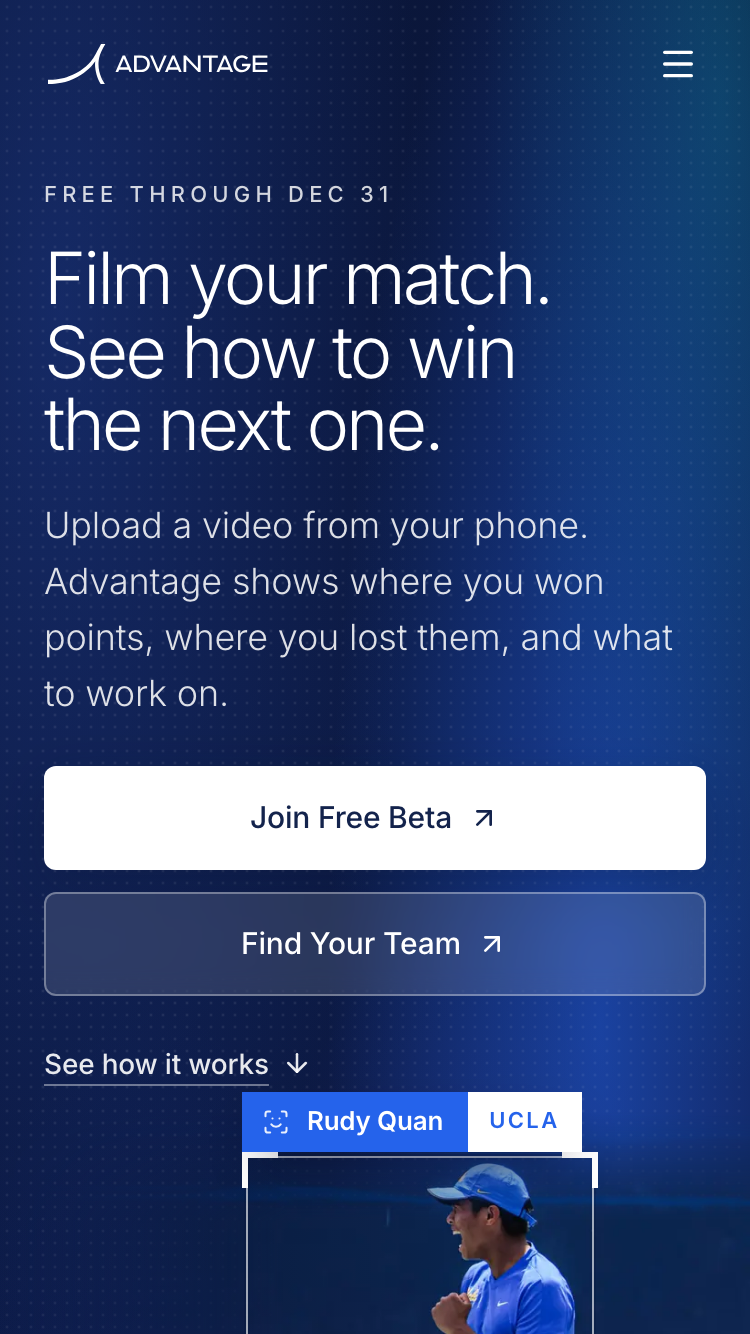
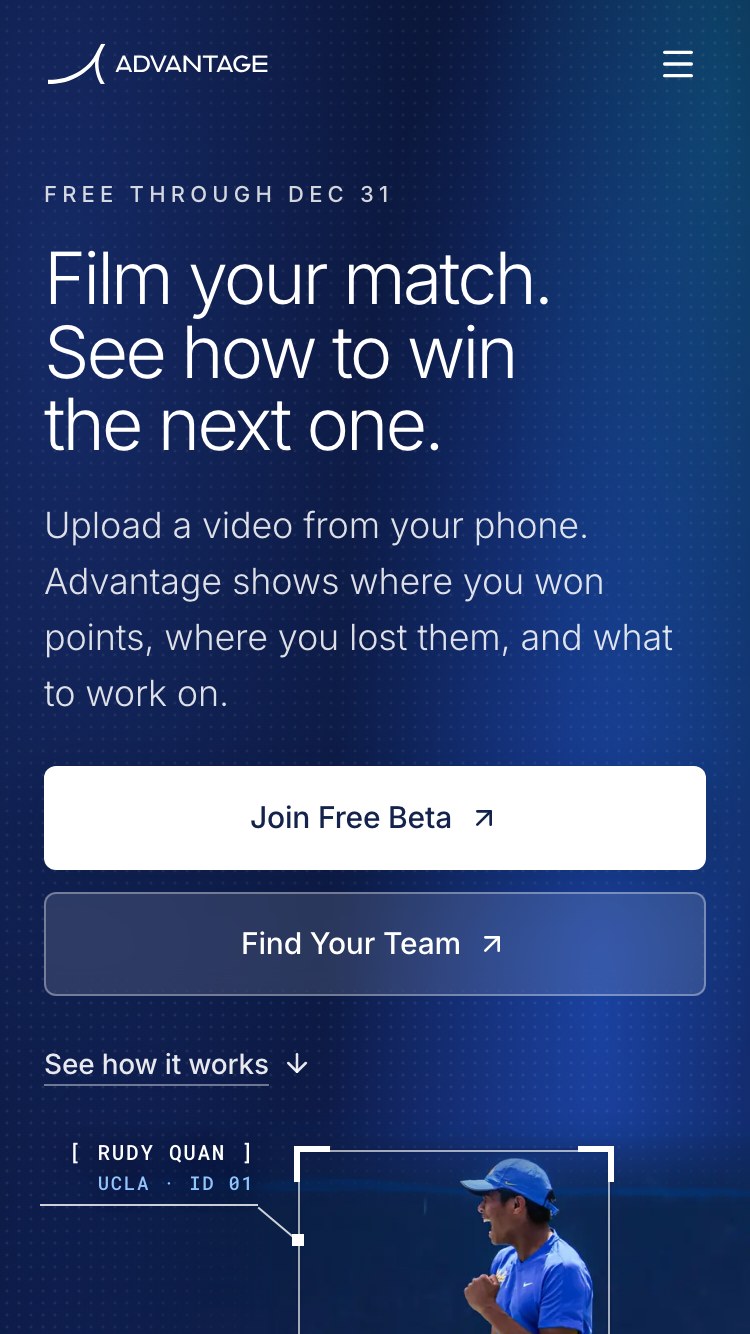
Turn the player tag into an angled callout
Replace the two-part tag with a technical read-out: an angled hairline
leader leaves the tracking box's left edge at head height, turns flat, and
carries a mono label out to the left ([ RUDY QUAN ] over UCLA · ID 01).
On phones the photo narrows slightly so the callout fits beside it.

Changed region(s): [[0.1227, 0.7991, 0.828, 1.0], [0.8587, 0.8913, 0.8893, 0.922], [0.368, 0.922, 0.3987, 0.9528]]

diff --git a/src/app/perspective.css b/src/app/perspective.css
@@ -799,13 +799,25 @@ section.band.final-band { position: relative; overflow: hidden; padding: 130px 0
 .hh-track .tr { top: -3px; right: -3px; border-top-width: 3px; border-right-width: 3px; }
 .hh-track .bl { bottom: -3px; left: -3px; border-bottom-width: 3px; border-left-width: 3px; }
 .hh-track .br { bottom: -3px; right: -3px; border-bottom-width: 3px; border-right-width: 3px; }
-.hh-track .tag { position: absolute; left: -3px; bottom: calc(100% + 3px); display: flex; align-items: stretch; height: 30px;
-  white-space: nowrap; box-shadow: 0 10px 24px -10px rgba(4,10,30,.7); }
-.hh-track .tag .id { display: flex; align-items: center; gap: 8px; padding: 0 12px 0 10px; background: var(--signal-blue-deep); color: #fff; }
-.hh-track .tag .id svg { flex: none; opacity: .9; }
-.hh-track .tag .nm { font: var(--fw-semibold) 13px/1 var(--font-sans); letter-spacing: -.1px; }
-.hh-track .tag .team { display: flex; align-items: center; padding: 0 11px; background: #fff; color: var(--signal-blue-deep);
-  font: var(--fw-semibold) 11px/1 var(--font-sans); letter-spacing: 1.2px; text-transform: uppercase; }
+/* The callout, anchored on the box's left edge. The leader is a
+   hairline of length --hh-lead hinged at that corner and tipped up-left by
+   --hh-angle; the label's own bottom rule is the flat run, seated exactly
+   on the leader's far end (--hh-lead-x, --hh-lead-y: the leader's run and
+   rise, cos and sin of the angle times its length), so the line reads as
+   one stroke that bends. Mono, uppercase, bracketed: a measurement read-out,
+   not a badge. */
+.hh-track { --hh-lead: 40px; --hh-lead-x: 30.64px; --hh-lead-y: 25.71px; }
+/* Hinged on the box's left edge at head height rather than its corner, so
+   the label sits beside the player, clear of the nav above. */
+.hh-track .callout { position: absolute; left: -1px; top: 15%; width: 0; height: 0; }
+.hh-track .callout::before { content: ""; position: absolute; left: -3px; top: -3px; width: 6px; height: 6px; background: #fff; }
+.hh-track .leader { position: absolute; right: 0; top: 0; width: var(--hh-lead); height: 1px; background: rgba(255,255,255,.8);
+  transform-origin: 100% 50%; transform: rotate(40deg); }
+.hh-track .label { position: absolute; right: var(--hh-lead-x); bottom: var(--hh-lead-y); display: grid; justify-items: end; gap: 6px;
+  padding: 0 2px 7px 14px; border-bottom: 1px solid rgba(255,255,255,.8); white-space: nowrap;
+  font: var(--fw-medium) 12px/1 var(--font-mono); letter-spacing: .08em; text-transform: uppercase; color: #fff;
+  text-shadow: 0 1px 10px rgba(6,12,32,.6); }
+.hh-track .label .meta { font-size: 11px; color: #93C5FD; }
 
 /* The computer screen: the dashboard Home's 1440 artboard under a browser
    bar, scaled to the container by useScaleToFit and cut off partway down.
@@ -844,9 +856,11 @@ section.band.final-band { position: relative; overflow: hidden; padding: 130px 0
   .hh-scene { position: relative; top: auto; bottom: auto; margin-top: 8px; }
   .hh-wide { position: relative; right: auto; aspect-ratio: auto;
     --hh-ramp: linear-gradient(to right, transparent 0%, rgba(0,0,0,.08) 8%, rgba(0,0,0,.3) 18%, rgba(0,0,0,.65) 28%, #000 38%); }
-  .hh-track { right: 0; width: min(78%, 380px); }
-  .hh-figure { position: relative; width: min(78%, 380px); margin-left: auto; }
-  .hh-ext { right: calc(min(78%, 380px) * .97); }
+  .hh-track { right: 0; width: min(70%, 340px); --hh-lead: 26px; --hh-lead-x: 19.92px; --hh-lead-y: 16.71px; }
+  .hh-track .label { font-size: 10.5px; gap: 5px; padding-bottom: 6px; }
+  .hh-track .label .meta { font-size: 9.5px; }
+  .hh-figure { position: relative; width: min(70%, 340px); margin-left: auto; }
+  .hh-ext { right: calc(min(70%, 340px) * .97); }
   .hh-screen { width: 150%; border-radius: 12px 12px 0 0; }
   .hh::after { height: clamp(150px, 40vw, 300px); }
 }

diff --git a/src/components/perspective/hero.tsx b/src/components/perspective/hero.tsx
@@ -2,7 +2,7 @@
 
 import type { CSSProperties } from "react";
 import Image, { getImageProps } from "next/image";
-import { ArrowDown, ArrowUpRight, ScanFace } from "lucide-react";
+import { ArrowDown, ArrowUpRight } from "lucide-react";
 import { DashboardHome } from "./dashboard-home";
 import { LiveDots } from "./live-dots";
 import { useScaleToFit } from "@/lib/use-scale-to-fit";
@@ -32,7 +32,7 @@ const HERO_PHOTO = {
   // The player-tracking box drawn over the photo, as the app draws one on
   // match video: its edges as percentages of the photo (it takes in the
   // racket as well as the player), and its label.
-  track: { left: 14, top: 6, width: 59.5, height: 89, label: "Rudy Quan", team: "UCLA" },
+  track: { left: 14, top: 6, width: 59.5, height: 89, label: "Rudy Quan", team: "UCLA", id: "01" },
 };
 
 // The extension only ever shows the photo's leftmost 3%, stretched, so a
@@ -174,12 +174,16 @@ export function PerspectiveHero() {
               }}
             >
               <i className="c tl" /><i className="c tr" /><i className="c bl" /><i className="c br" />
-              <span className="tag">
-                <span className="id">
-                  <ScanFace size={14} strokeWidth={1.75} />
-                  <span className="nm">{HERO_PHOTO.track.label}</span>
+              {/* The callout: a leader line leaves the box's top-left corner at
+                  an angle, turns flat, and carries the label out to the left. */}
+              <span className="callout">
+                <i className="leader" />
+                <span className="label">
+                  <span className="nm">[ {HERO_PHOTO.track.label} ]</span>
+                  <span className="meta">
+                    {HERO_PHOTO.track.team} · ID {HERO_PHOTO.track.id}
+                  </span>
                 </span>
-                <span className="team">{HERO_PHOTO.track.team}</span>
               </span>
             </div>
           </div>

diff --git a/DESIGN.md b/DESIGN.md
@@ -4,7 +4,7 @@ Visual system for the Advantage landing page, vendored from the `advantage-dashb
 
 ## Visual Theme
 
-Light, clean, high-clarity — Stripe/Linear tech-minimal. One deliberate dark band (final CTA) for contrast as punctuation. Borders for structure, soft shadows for elevation, generous whitespace. Photography of real players is the hero imagery: a photo on the hero's right, shown whole, its background extended to the left and fading on one long gradient into the brand mesh in its deep navy register (with the live dot grid) the white type sits on, and marked with a square player-tracking box and ID tag; product UI sits under it on a computer screen that fades into the next section, and as the proof further down the page.
+Light, clean, high-clarity — Stripe/Linear tech-minimal. One deliberate dark band (final CTA) for contrast as punctuation. Borders for structure, soft shadows for elevation, generous whitespace. Photography of real players is the hero imagery: a photo on the hero's right, shown whole, its background extended to the left and fading on one long gradient into the brand mesh in its deep navy register (with the live dot grid) the white type sits on, and marked with a square player-tracking box and an angled mono callout naming the player; product UI sits under it on a computer screen that fades into the next section, and as the proof further down the page.
 
 ## Color
 

diff --git a/review/landing-human-hero/SUMMARY.md b/review/landing-human-hero/SUMMARY.md
@@ -22,9 +22,10 @@ than create `landing-human-hero`). Nothing pushed or deployed; `main` untouched.
   set a little stronger in the hero (`<LiveDots glow={2.2} />`; the default, used
   everywhere else and in the dashboard's copy, is unchanged).
 - A square player-tracking box (no rounded corners) frames the player and
-  the racket, with an ID tag seated on its top edge: "Rudy Quan" on the
-  deep accent blue and "UCLA" on white, in the style the app uses to mark a
-  tracked player on video.
+  the racket. A callout leaves its left edge at head height on an angled
+  hairline leader, turns flat, and carries a mono read-out out to the left:
+  "[ RUDY QUAN ]" over "UCLA · ID 01". The label, team and ID live in
+  `HERO_PHOTO.track` in `hero.tsx`.
 - Under the copy and the photo, the dashboard sits on a computer screen (a
   browser window, full container width) that fades out into the next section.
   On phones it is drawn wider than the viewport so it stays legible.
